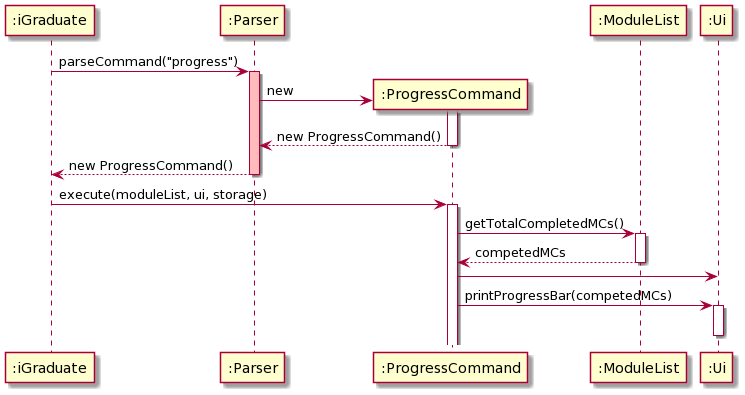
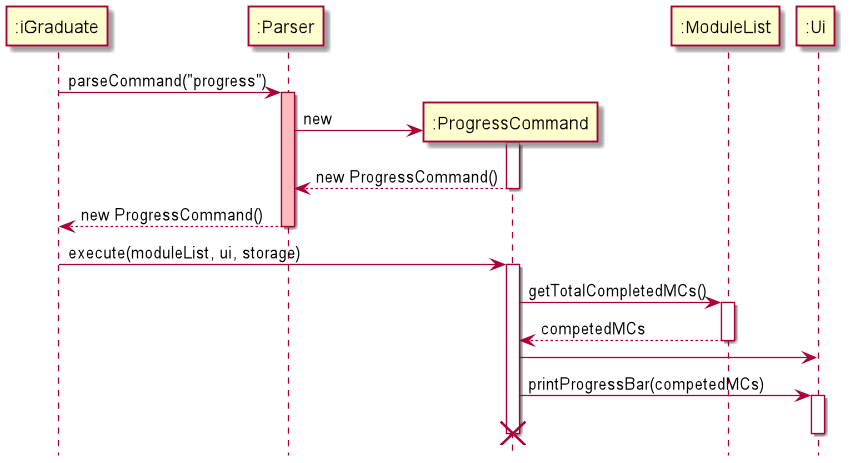
Modify sequence diagrams and captions of DG

diff --git a/docs/DeveloperGuide.md b/docs/DeveloperGuide.md
@@ -438,7 +438,7 @@ The parser feature has 3 primary responsibilities:
 
 ![archi](./images/ParserSequenceDiagram.png)
 
-<sup>***Figure 4.2.1** Sequence diagram of `Parser` class with user input *"done CS1010 -g A"**</sup>
+<sup>***Figure 4.2.1** Sequence diagram of `Parser` in execution with *"done CS1010 -g A"** as user input</sup>
 
 #### Details
 
@@ -497,7 +497,7 @@ The sequence diagram below shows the execution of add command in action:
 
 ![archi](./images/AddCommandSequenceDiagram.png)
 
-<sup>***Figure 4.3.1.1** Sequence diagram of `AddCommand` in execution.*</sup>
+<sup>***Figure 4.3.1.1** Sequence diagram of `AddCommand` in execution with *"add Programming Methodology -c CS1010 -mc 4 -t core"* as user input.*</sup>
 
 #### 4.3.2 Delete Command
 
@@ -507,7 +507,7 @@ involved for deleting a module.
 > ℹ **Note:** Users cannot delete modules which are prerequisites for other modules.
 
 ![archi](./images/DeleteCommandSequenceDiagram.png)
-<sup>***Figure 4.3.2.1** Sequence diagram of `Delete` class with "delete CS1010" as user input*</sup>
+<sup>***Figure 4.3.2.1** Sequence diagram of `DeleteCommand` in execution with "delete CS1010" as user input*</sup>
 
 #### 4.3.3 Update Command
 
@@ -541,12 +541,12 @@ The following is the UML diagrams for update command consisting of updating each
 
 ![archi](./images/updateClassDiagram.jpg)
 
-<sup>***Figure 4.3.3.1** Class diagram of `Update` class with user input*</sup>
+<sup>***Figure 4.3.3.1** Class diagram of `UpdateCommand` class with user input*</sup>
 
 
 ![archi](./images/UpdateCommandSequenceDiagram.png)
 
-<sup>***Figure 4.3.3.2** Sequence diagram of `Update` class with user input*</sup>
+<sup>***Figure 4.3.3.2*** Sequence diagram of `UpdateCommand` in execution with *update CS1010 -mc 2"* as user input</sup>
 
 #### Considerations
 
@@ -588,7 +588,7 @@ parameter from user input, and there is 1 compulsory flag:
 
 ![archi](./images/DoneCommandSequenceDiagram.png)
 
-<sup>***Figure 4.3.6.1** Sequence diagram of `DoneCommand` class with user input*</sup>
+<sup>***Figure 4.3.6.1*** Sequence diagram of `DoneCommand` in execution with *"done CS1010 -g A"* as user input</sup>
 
 #### 4.3.7 Progress Command
 
@@ -597,7 +597,7 @@ additional flags are required for this command.
 
 ![archi](./images/ProgressSequenceDiagram.png)
 
-<sup>***Figure 4.3.7.1** Sequence diagram of `ProgressCommand` class.*</sup>
+<sup>***Figure 4.3.7.1*** Sequence diagram of `ProgressCommand` in execution.*</sup>
 
 ### 4.4 Module
 
